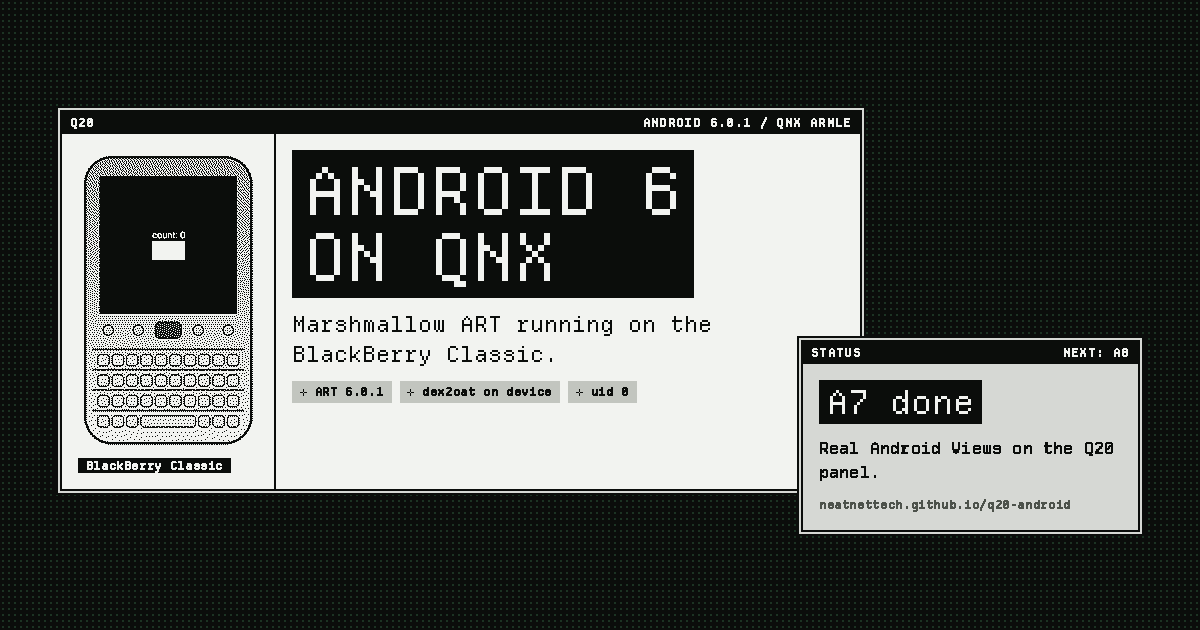
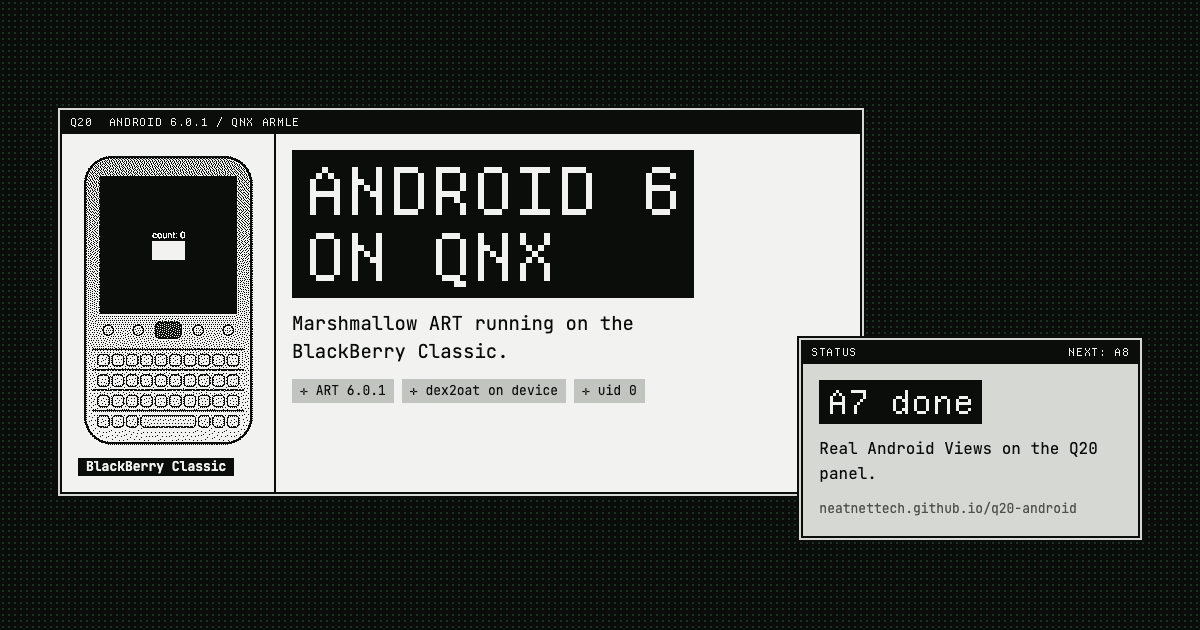
site: readable body type (#5)
JetBrains Mono for running text, Departure Mono kept for display sizes and
title bars at multiples of its 11px grid, where the pixel look reads well.

diff --git a/site/style.css b/site/style.css
@@ -7,6 +7,18 @@
   src: url("fonts/DepartureMono-Regular.woff2") format("woff2");
   font-display: swap;
 }
+@font-face {
+  font-family: "JetBrains Mono";
+  src: url("fonts/JetBrainsMono-400.woff2") format("woff2");
+  font-weight: 400;
+  font-display: swap;
+}
+@font-face {
+  font-family: "JetBrains Mono";
+  src: url("fonts/JetBrainsMono-700.woff2") format("woff2");
+  font-weight: 700;
+  font-display: swap;
+}
 
 :root {
   /* color */
@@ -19,9 +31,11 @@
   --phos: #39ff7a;      /* accent, use sparingly */
   --muted: #4d524b;     /* secondary text on --win (AA) */
 
-  /* type: Departure Mono is drawn on an 11px grid, so big sizes are multiples of 11 */
-  --font: "Departure Mono", ui-monospace, Menlo, Consolas, monospace;
-  --t1: 12px;
+  /* type: JetBrains Mono for reading, Departure Mono (pixel, 11px grid) only for
+     display sizes and title bars, always at multiples of 11 */
+  --font: "JetBrains Mono", ui-monospace, Menlo, Consolas, monospace;
+  --font-px: "Departure Mono", ui-monospace, monospace;
+  --t1: 13px;
   --t2: 16px;
   --t3: 22px;
   --t4: 33px;
@@ -47,8 +61,7 @@ body {
   min-height: 100vh;
   overflow-x: hidden;
   color: var(--ink);
-  font: 400 var(--t2)/1.5 var(--font);
-  -webkit-font-smoothing: none;
+  font: 400 var(--t2)/1.6 var(--font);
   background:
     radial-gradient(circle, var(--dot) 1px, transparent 1.5px) 0 0 / 6px 6px,
     var(--bg);
@@ -93,7 +106,8 @@ code { font: inherit; background: var(--win-2); padding: 0 var(--s1); }
 .win__bar {
   background: var(--ink);
   color: var(--paper);
-  font-size: var(--t1);
+  font: 11px/1.6 var(--font-px);
+  -webkit-font-smoothing: none;
   letter-spacing: .06em;
   text-transform: uppercase;
   padding: 2px var(--s2);
@@ -113,12 +127,14 @@ code { font: inherit; background: var(--win-2); padding: 0 var(--s1); }
   background: var(--ink);
   color: var(--paper);
   padding: 0 var(--s2);
-  line-height: 1.25;
+  line-height: 1.4;
+  font-weight: 700;
 }
+.tag--xl, .tag--l, .btn { font-family: var(--font-px); font-weight: 400; -webkit-font-smoothing: none; }
 .tag--xl { font-size: var(--t5); line-height: 1; padding: var(--s2) var(--s3); }
 .tag--l { font-size: var(--t4); line-height: 1.1; padding: var(--s1) var(--s2); }
 
-.lead { font-size: var(--t3); line-height: 1.35; max-width: 34ch; }
+.lead { font-size: 19px; line-height: 1.5; max-width: 38ch; }
 .muted { color: var(--muted); }
 
 /* ---- chip ---- */
@@ -211,9 +227,9 @@ code { font: inherit; background: var(--win-2); padding: 0 var(--s1); }
   :root { --t2: 15px; }
   .desk > .win { margin-right: 14px; }
   .desk > .win:nth-of-type(even) { margin-left: 14px; margin-right: 4px; }
-  .lead { font-size: 18px; }
-  .tag--xl { font-size: 40px; }
-  .tag--l { font-size: 26px; }
+  .lead { font-size: 17px; }
+  .tag--xl { font-size: 44px; }
+  .tag--l { font-size: 22px; }
 
   /* hero: title first, phone below in its own panel */
   .win__body--split { grid-template-columns: 1fr; }
